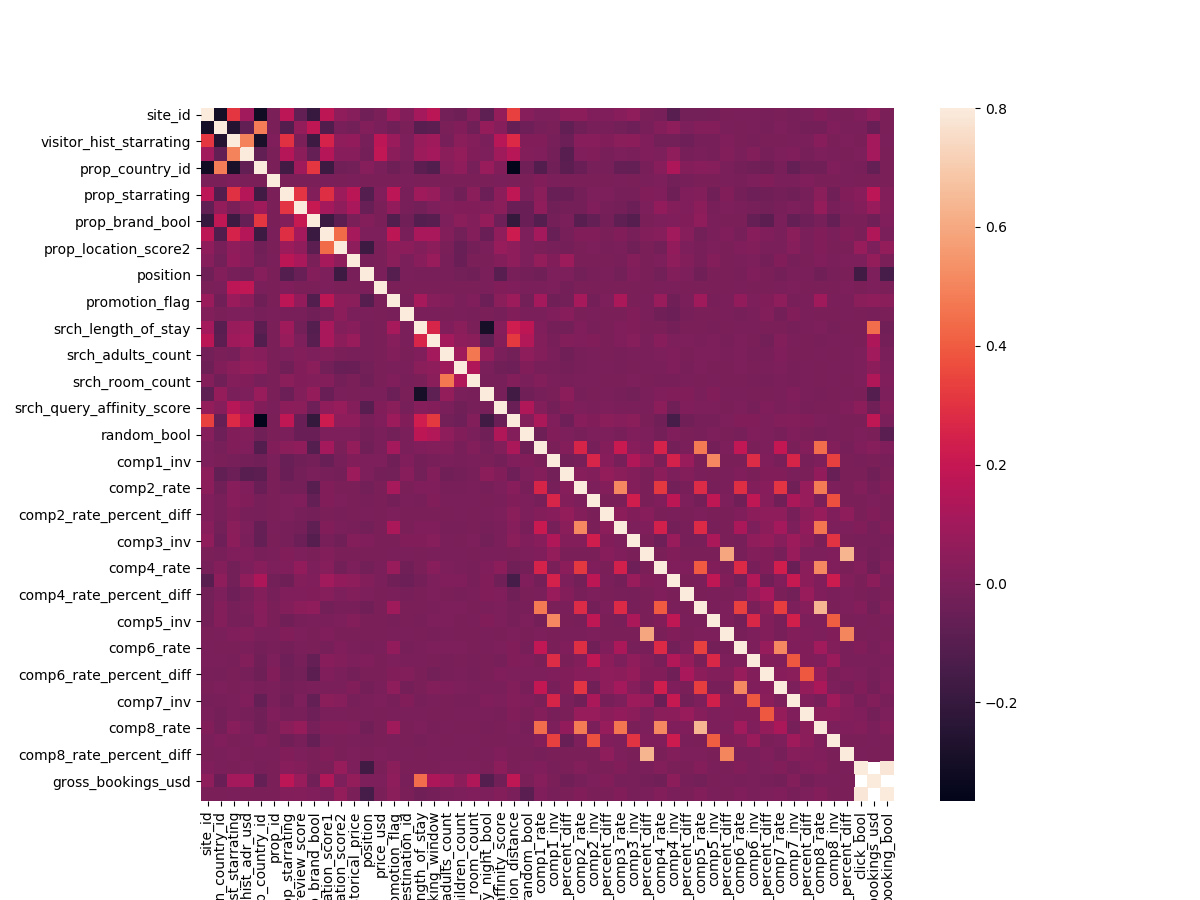
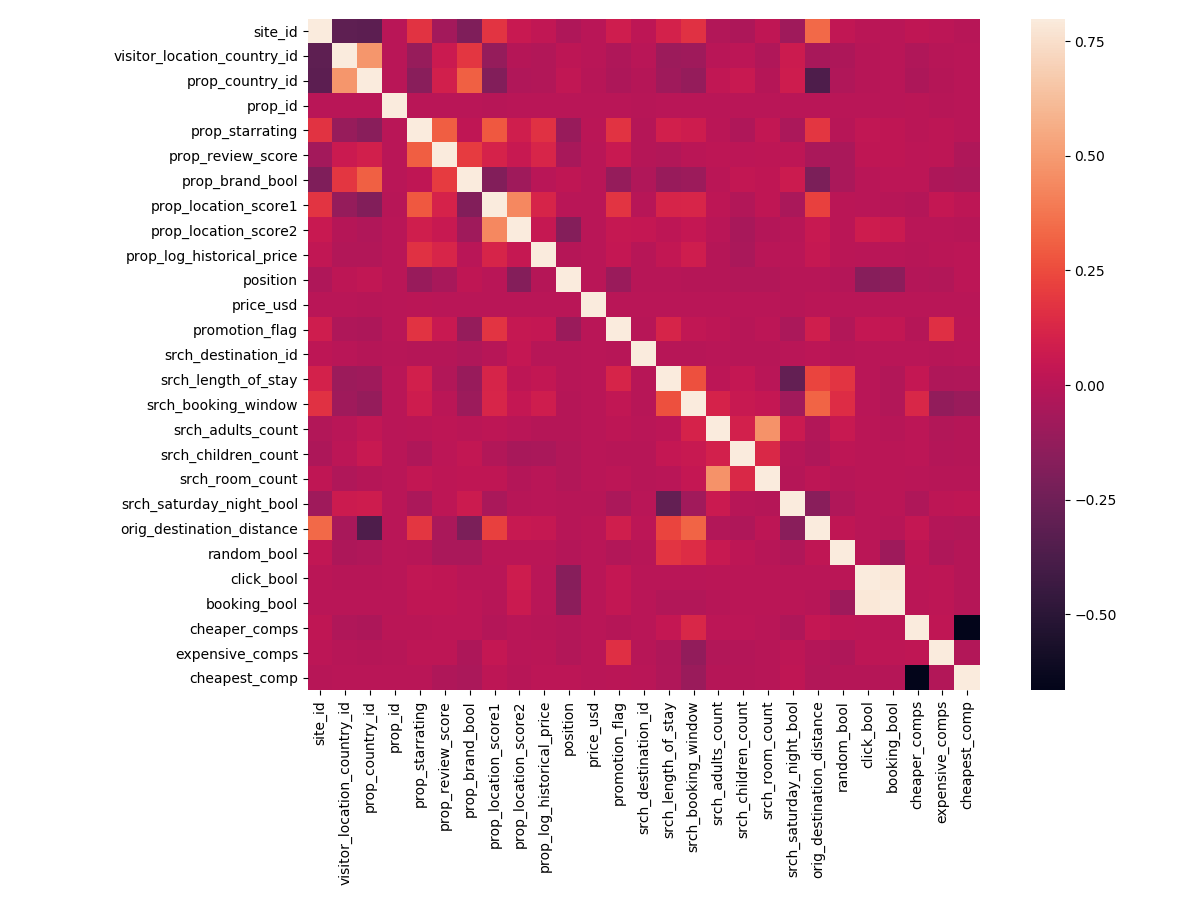
dataset maken

diff --git a/2_data.py b/2_data.py
@@ -66,30 +66,14 @@ class visualize_functions:
         sns.heatmap(corrmat, vmax=.8, square=True);
         plt.xticks(rotation='vertical')
         plt.yticks(rotation='horizontal')
+        plt.tight_layout()
         fig.savefig('visualize/heatmap.png')
 
 
-#Load the dataset from CSV
-try:
-    data_all = pd.read_csv("training_set_VU_DM_2014.csv", index_col=0, header=0,  delimiter=",")
-except IOError as e:
-    print('File not found!')
-    raise e
-
-func = visualize_functions()
-
-# func.heatmap_corr(data_all)
-# data_all.describe().to_csv('describe_data.csv')
+#Read in preprocessed data
+data_all = pd.read_pickle('preprocessed.pkl')
 
 
-comp_names = [['comp1_rate', 'comp1_inv', 'comp1_rate_percent_diff'], ['comp2_rate', 'comp2_inv', 'comp2_rate_percent_diff'],
-              ['comp3_rate', 'comp3_inv', 'comp3_rate_percent_diff'], ['comp4_rate', 'comp4_inv', 'comp4_rate_percent_diff'],
-              ['comp5_rate', 'comp5_inv', 'comp5_rate_percent_diff'], ['comp6_rate', 'comp6_inv', 'comp6_rate_percent_diff'],
-              ['comp7_rate', 'comp7_inv', 'comp7_rate_percent_diff'], ['comp8_rate', 'comp8_inv', 'comp8_rate_percent_diff']]
-
-for com in comp_names:
-    for c in com:
-        data_all = data_all.drop(c)
 
 cols_names = data_all.columns
 nandat = data_all.isnull().sum()
@@ -103,72 +87,18 @@ nandat = [(e/total)*100 for e in nandat]
 
 sorted = range(len(cols_names))
 
-plt.bar(sorted, nandat, color="#3F5D7D", align='edge', width=0.6)
+plt.bar(sorted, nandat, color = "#3F5D7D", align = 'edge', width=0.6)
 plt.ylabel('Percentage NaN values')
 plt.xticks(sorted, cols_names, rotation='vertical')
-
+plt.ylim(0,100)
 plt.tight_layout()
 plt.savefig('visualize/nanvalues.png')
-
 plt.close()
 
-# range_book = [[0,2],[3,5],[6,],[12,20],[21,50],[50,500000000000]]
-# range_book_str = ['zero to two','three to five','six to eleven','twelve to twenty','twentyone to fifty','fifty plus']
+func = visualize_functions()
+func.heatmap_corr(data_all)
 
-# range_book = range(0,100)
-# range_book_str = [str(e) for e in range_book]
-# all2 = []
-#
-# for ran in range_book:
-#     count = data_all.loc[(data_all['srch_booking_window'] == ran) & (data_all['booking_bool'] == 1)].shape[0]
-#     all2.append(count)
-#
-# print(range_book_str)
-#
-# plt.bar(range(len(range_book_str)), all2, 0.25, color="blue")
-# plt.xticks(range(len(range_book_str)),range_book_str)
-# plt.xticks(rotation='vertical')
-# plt.savefig('visualize/book_window.png')
-# plt.tight_layout()
-# plt.show()
-
-
-
-# scores = np.sort(data_all.prop_review_score.unique())
-#
-# print(data_all['booking_bool'])
-#
-# all = []
-#
-# for s in scores:
-#     count = data_all.loc[(data_all['prop_review_score'] == s) & (data_all['booking_bool'] == 1)].shape[0]
-#     all.append(count)
-#
-# print(scores)
-# print(all)
-#
-# y = [3, 10, 7, 5, 3, 4.5, 6, 8.1]
-# N = len(y)
-# x = range(N)
-# width = 0.25
-# plt.bar(scores, all, width, color="blue")
-# plt.savefig('visualize/bookedperstar.png')
-# plt.show()
-
-
-# pd.plotting.scatter_matrix(data_all, diagonal='kde')
-# plt.show()
-# fig.savefig('visualize/scatter.png')
-# plt.close(fig)
-
-#make boxplot, density plot and histogram
-# for col in data_all:
-#     if col == 'date_time':
-#         continue
-#     fig, axes = plt.subplots(1,3, figsize=(25,8))
-#     print(axes)
-#     data_all.boxplot(column=col, ax=axes[0])
-#     data_all[col].plot(kind='kde', ax=axes[1])
-#     data_all.hist(column=col, ax=axes[2])
-#     fig.savefig('visualize/' + col + '.png')
-#     plt.close(fig)    # close the figure
+for name in ['cheaper_comps','expensive_comps','cheapest_comp']:
+    print(data_all[name].describe())
+    print(data_all[name].loc[data_all[name] == 0].shape)
+    print(data_all.shape[0] - data_all[name].loc[data_all[name] == 0].shape[0])

diff --git a/1_process.py b/1_process.py
@@ -25,31 +25,47 @@ except IOError as e:
     print('File not found!')
     raise e
 
+# data_all = data_all.head(5000)
+
 cols_names = data_all.columns
-
-print(cols_names)
-
-data_all = data_all.drop(['visitor_hist_adr_usd', 'visitor_hist_starrating', 'srch_query_affinity_score', 'prop_starrating'])
 
 comp_names = [['comp1_rate', 'comp1_inv', 'comp1_rate_percent_diff'], ['comp2_rate', 'comp2_inv', 'comp2_rate_percent_diff'],
               ['comp3_rate', 'comp3_inv', 'comp3_rate_percent_diff'], ['comp4_rate', 'comp4_inv', 'comp4_rate_percent_diff'],
               ['comp5_rate', 'comp5_inv', 'comp5_rate_percent_diff'], ['comp6_rate', 'comp6_inv', 'comp6_rate_percent_diff'],
               ['comp7_rate', 'comp7_inv', 'comp7_rate_percent_diff'], ['comp8_rate', 'comp8_inv', 'comp8_rate_percent_diff']]
 
-print(comp_names)
+cheaper = data_all[comp_names[0][0]]
+expensive = data_all[comp_names[0][0]]
+cheapest = data_all[comp_names[0][2]]
+cheaper.iloc[:] = 0
+expensive.iloc[:] = 0
+cheapest.iloc[:] = 0
 
-total = data_all[comp_names[0][0]].where((data_all[comp_names[0][0]] == 4 & data_all[comp_names[0][1]] == 0),0)
+cheap_check = cheapest.values
 
 for comp in comp_names:
-    summing = data_all[comp[0]].where((data_all[comp[0]] == -1 & data_all[comp[1]] == 0),0)
-    total = pd.concat([total,summing],axis=1)
+    conditions1 = [(data_all[comp[0]].values == -1) & (data_all[comp[1]].values == 0)]
+    conditions2 = [(data_all[comp[0]].values == 1) & (data_all[comp[1]].values == 0)]
+    choices1 = [data_all[comp[0]].values]
+    choices2 = [data_all[comp[2]].values]
+    cheap = np.select(conditions1, choices1, default=0)
+    expen = np.select(conditions2, choices1, default=0)
+    max_cheap = np.select(conditions1, choices2, default=0)
+    cheaper = cheaper + cheap
+    expensive = expensive + expen
+    cheap_check = np.maximum(cheap_check, max_cheap)
 
-total = total.sum(axis=1)
+cheapest = cheapest + cheap_check
 
-print(total)
-print(total.loc[total < 0].shape)
-print(data_all.shape)
+data_all['cheaper_comps'] = cheaper
+data_all['expensive_comps'] = expensive
+data_all['cheapest_comp'] = cheapest
 
+for comp in comp_names:
+    print(comp)
+    data_all.drop(comp, axis = 1, inplace = True)
 
-# #save data to pickle file
-# data_all.to_pickle('preprocessed.pkl')
+data_all.drop(['visitor_hist_adr_usd', 'visitor_hist_starrating', 'srch_query_affinity_score', 'gross_bookings_usd'], axis = 1, inplace = True)
+
+#save data to pickle file
+data_all.to_pickle('preprocessed.pkl')
